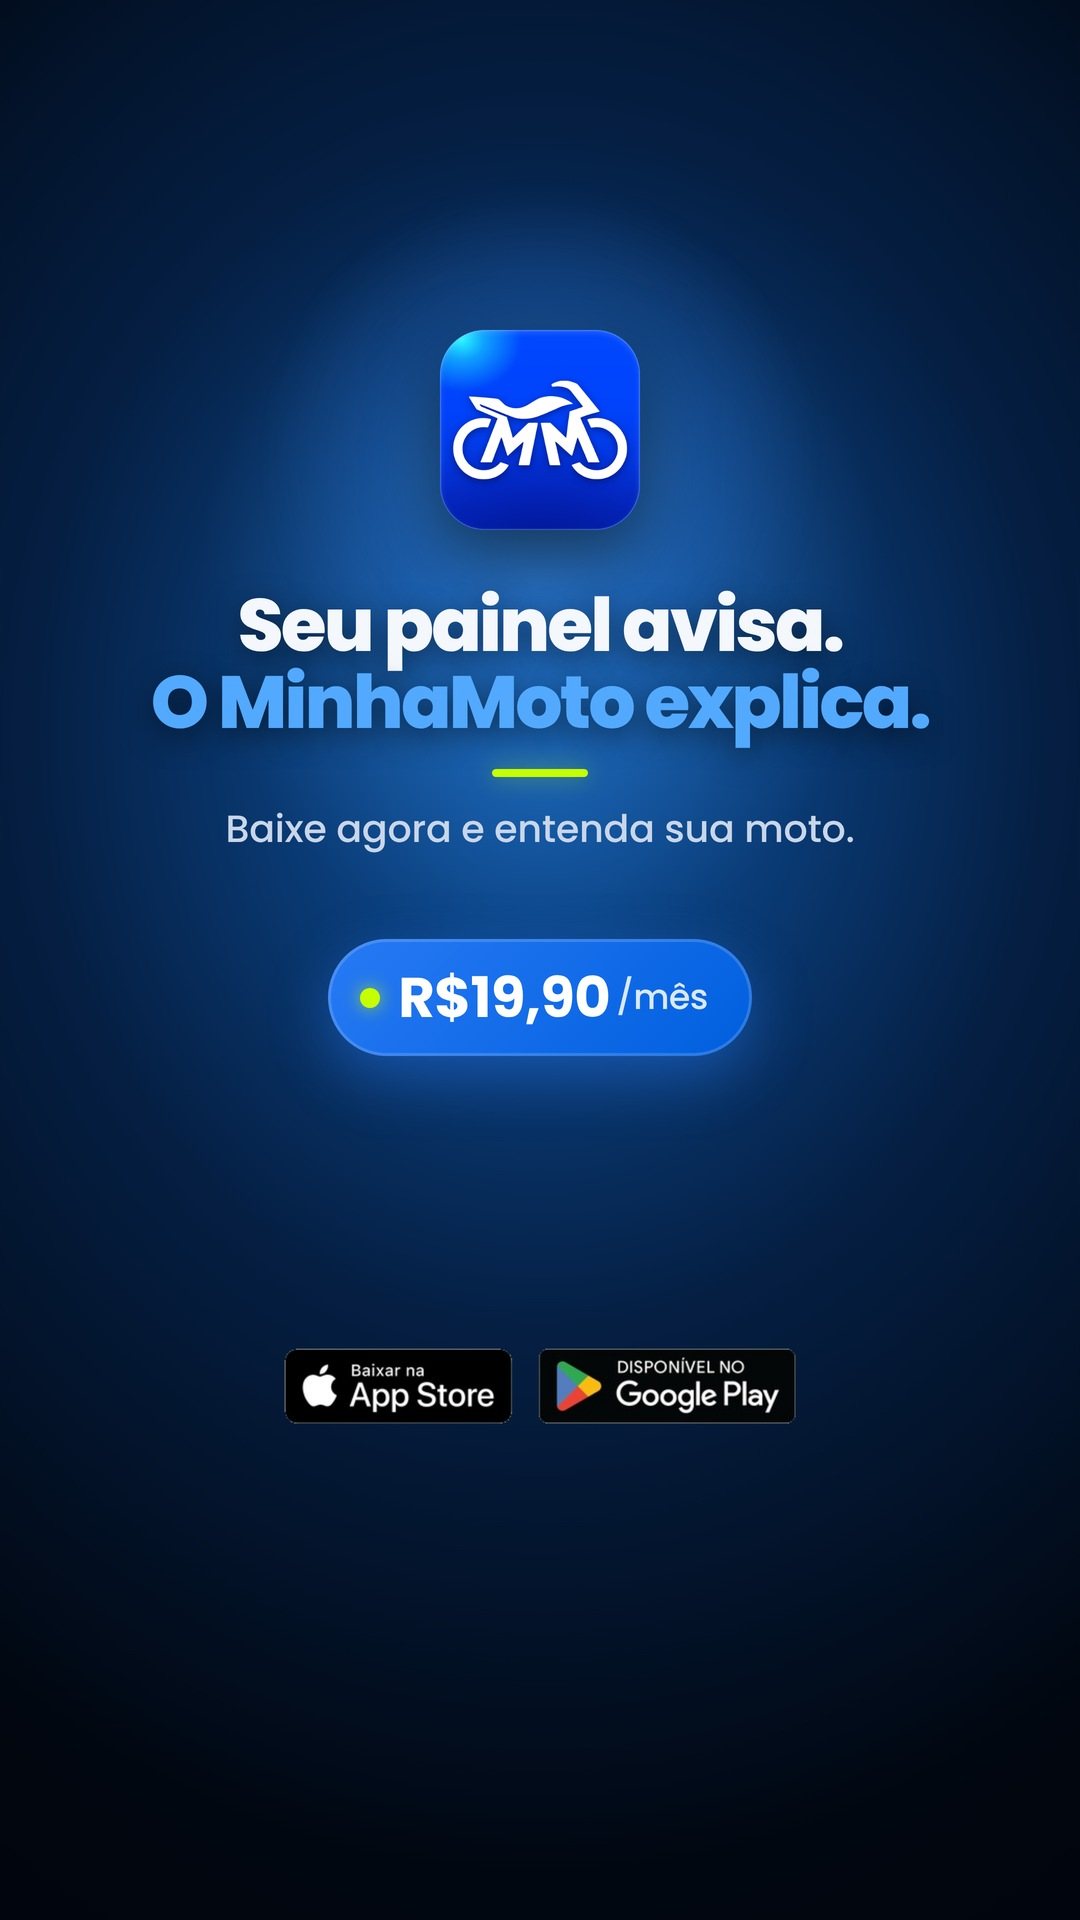
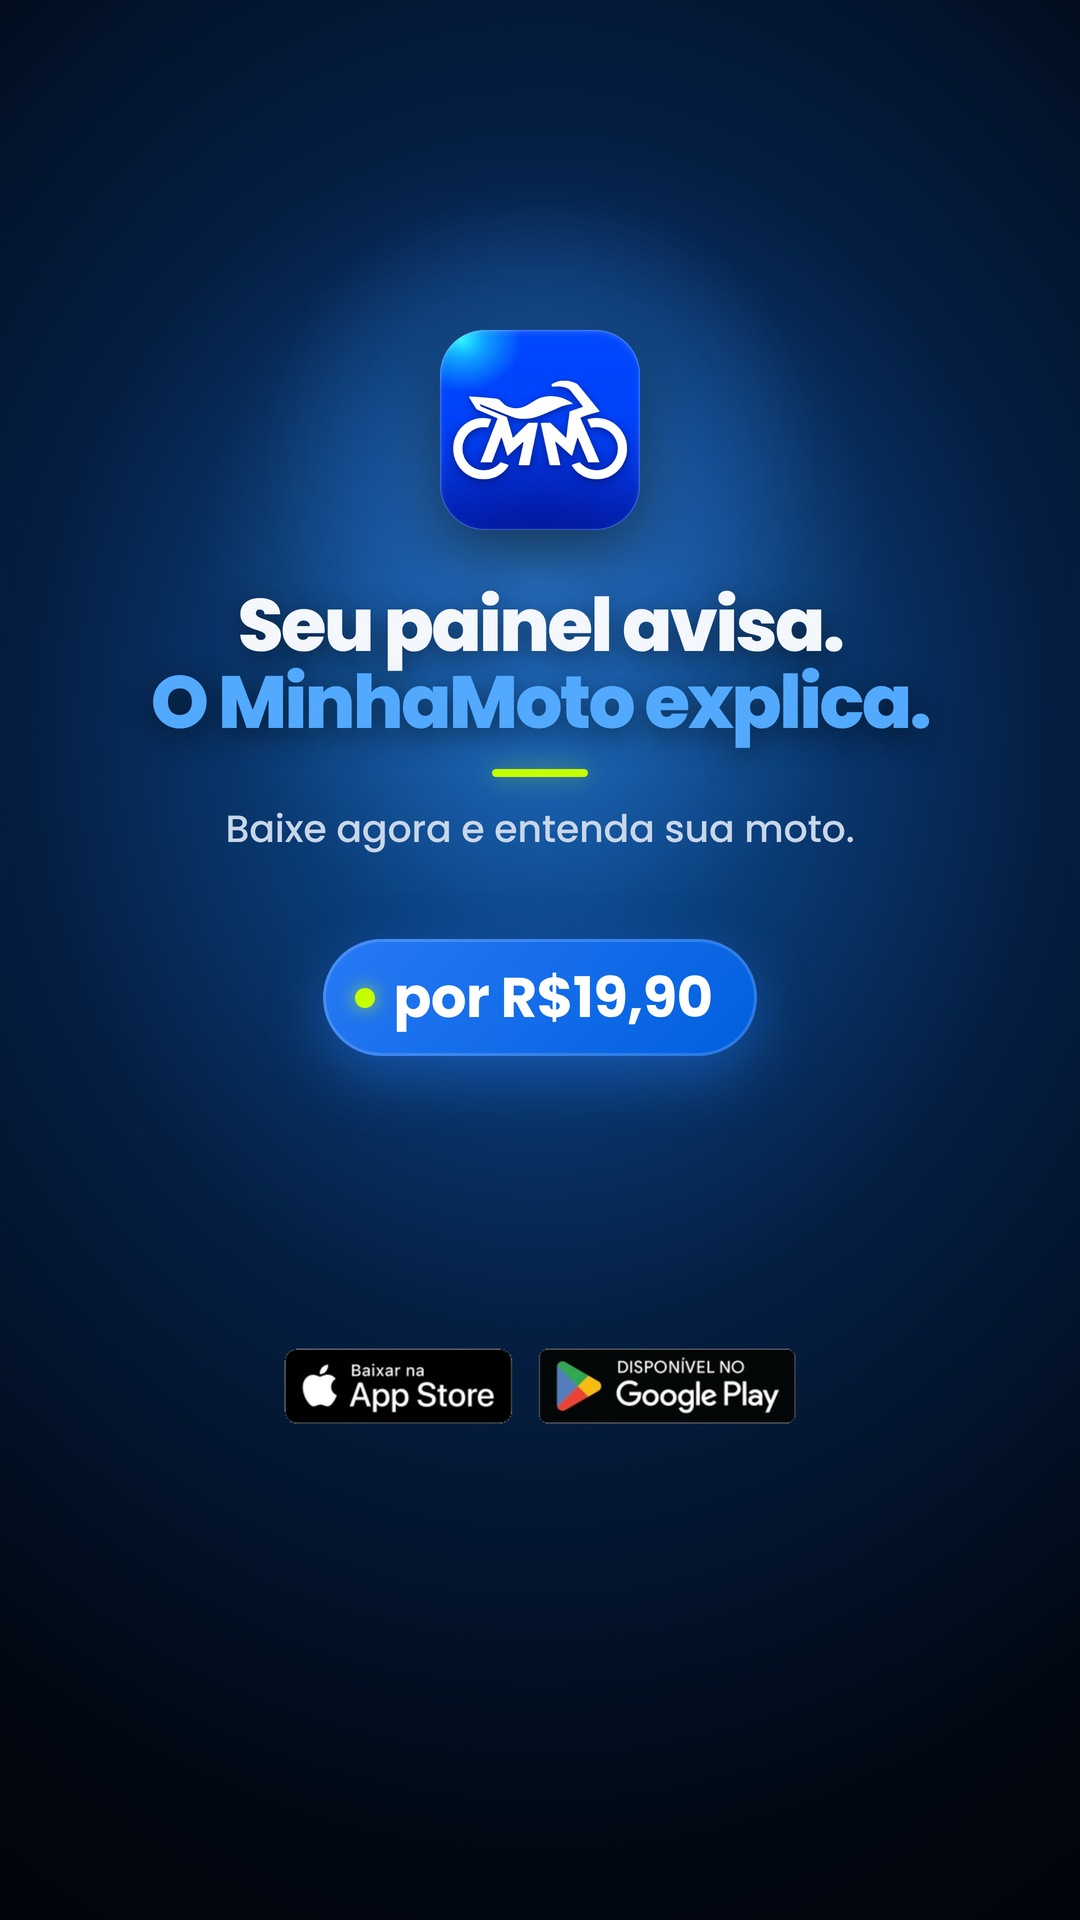
Estúdio: constituição bloco 1 (questionário do Léo) + CM01 sem /mês e telas do iPhone
Claude-Session: https://claude.ai/code/session_01GzJAJ8gSHYwpez61HiJmsp

Changed region(s): [[0.275, 0.5, 0.7028, 0.5625]]

diff --git a/agencia/estudio/motores/cm01_luzes.py b/agencia/estudio/motores/cm01_luzes.py
@@ -16,7 +16,7 @@ from recortes_app import trecho, destaque, cards
 from render_check import render
 
 SAIDA = os.path.join(REPO, 'agencia', 'estudio', 'pecas', 'CM01')
-SIN = 'rolagem/12-sinais-problema.png'
+SIN = 'ios-1.0/rolagem/12-sinais-problema.png'   # telas do iPhone (iOS 1.0 build 33), regra 24/11
 OLEO, TEMP, INJ, BAT = 9, 10, 11, 13          # índices dos cards na tela Sinais de problema
 N = 7
 _, RUNS = cards(SIN)
@@ -155,7 +155,7 @@ def final(tt):
     t = (f"<div class=titB style='position:relative;left:0;right:0;font-size:{tam}px;margin-top:52px;letter-spacing:-.035em;line-height:1.04'>"
          "Seu painel avisa.<br><span class=b>O MinhaMoto explica.</span></div><span class=lm></span>")
     s = f"<div class=apoB style='position:relative;left:0;right:0;font-size:{38 if tt else 42}px;margin-top:26px'>Baixe agora e entenda sua moto.</div>"
-    pr = "<div style='margin-top:44px'><span class=preco><i></i>R$19,90<small style='font-family:j500;font-size:.62em;opacity:.85;margin-left:-.35em'>/mês</small></span></div>"
+    pr = "<div style='margin-top:44px'><span class=preco><i></i>por R$19,90</span></div>"
     pad = 140 if tt else 60
     corpo = f"<div style='position:absolute;left:{pad}px;right:{pad}px;top:{top}px;text-align:center'>{ic}{t}{s}{pr}</div>"
     se = f"<div style='position:absolute;left:0;right:0;top:{selos}px;text-align:center'><img src='file://{SELOS}' style='width:540px'></div>"

diff --git a/agencia/DESIGN-MINHAMOTO.md b/agencia/DESIGN-MINHAMOTO.md
@@ -9,6 +9,25 @@
 ---
 
 
+## ★ CONSTITUIÇÃO DO ESTÚDIO (questionário do Léo, 24/11) — vale acima de tudo abaixo, menos regra mais nova
+**Bloco 1 · voz, público e gosto**
+- **Público:** os 4 ao mesmo tempo: motoboy/entregador, quem vai trabalhar de moto, motociclista de hobby/fim de semana e iniciante. Cada peça escolhe UM deles e fala com ele (não misturar públicos na mesma peça). · 24/11
+- **Tom:** todos valem e são bem-vindos pra criar e testar (mecânico parceiro, especialista, zoeira, premium). Variar entre peças; cada peça com um tom só. · 24/11
+- **Gíria de motociclista:** à vontade. · 24/11
+- **Humor:** sim. **Palavrão: nunca.** · 24/11
+- **Ângulo de venda:** revezar tudo (medo de prejuízo, economia, controle, orgulho da moto). Um ângulo por peça. · 24/11
+- **Texto por card:** pouco (nível 2 de 5): a frase de impacto + no máximo uma linha de apoio. · 24/11
+- **Estética:** escuro premium (atual), claro limpo e foto real de moto em destaque. ❌ Não usar o "gritante estilo TikTok". · 24/11
+- **Foto de moto:** pode gerar com IA desde que NÃO pareça IA (revisar mão, roda, raio, guidão, placa, reflexo; na dúvida, não usa). · 24/11
+- **Pessoa em cena:** por enquanto ninguém; ator UGC só mais pra frente, com OK dele. · 24/11
+- **Objetivo do orgânico:** alcance / viralizar. A peça é julgada por "isso para o dedo e faz compartilhar?". · 24/11
+- **Preço: NUNCA dizer que é por mês.** Nada de "/mês", "mensal", "por mês". ✅ "por R$19,90". · ❌ CM01 r3 saiu com "R$19,90/mês" mesmo com a regra de 16/11 (erro repetido) · 24/11
+- **O que mais irrita o Léo (prioridade da revisão):** visual sem graça, copy fraca, demora e REPETIR ERRO JÁ CORRIGIDO. Antes de entregar, o revisor roda `grep` deste arquivo contra a peça (preço, telas, termos proibidos). · 24/11
+- **Dúvida entre dois caminhos:** perguntar pro Léo antes (múltipla escolha, rápido), sem parar o resto do trabalho. · 24/11
+- **Telas do app = as do iPhone (iOS 1.0, build 33).** Usar só `agencia/designer/assets/telas-app/ios-1.0/` e o que já está guardado no repo. Não gerar tela, não recortar tela de vídeo. · 24/11
+
+---
+
 ## 0. Antes de 17/11 (feedbacks de 15 e 16/11)
 - **Referência de estética do acervo dele:** carrosséis clean, minimalistas, "aparência Apple muito foda", tipo institucional. O novo tem que estar nesse nível ou acima. · 15/11
 - **Gosto geral:** fonte estilo Apple (→ hoje: Poppins, 18/11), tudo em azul (→ hoje: azuis oficiais + toque limão, 18/11), menos texto na tela, mais interativo, "as coisas popam". · 17/11 (pedido em outro projeto, mesmo gosto)
